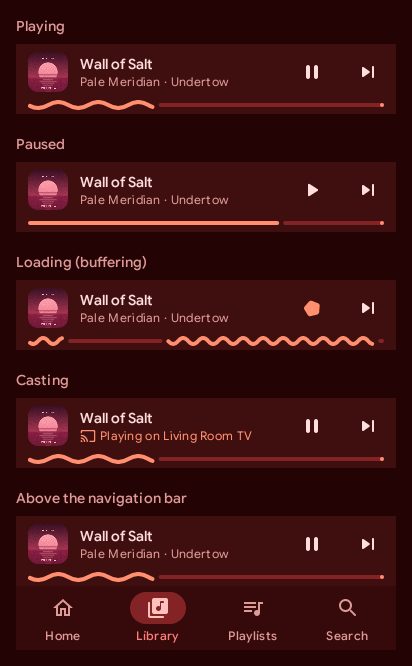
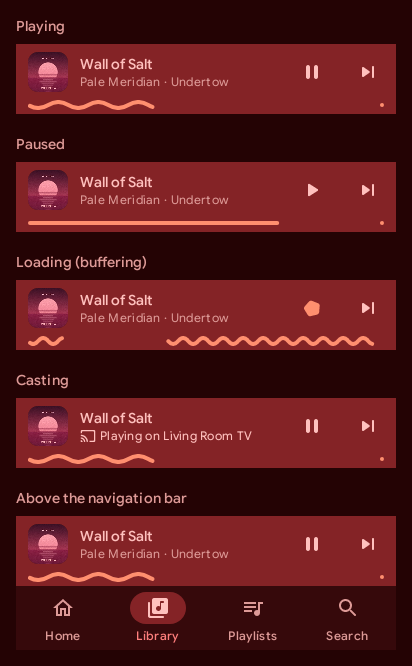
feat(designsystem): artworkRole lets player surfaces take artwork roles, mini player fills from the cover
ArtworkTheme now exposes an animated artwork weight, read through artworkRole(root, artwork):
artwork roles under a seed at Default contrast, the root roles otherwise, crossfading as a seed
comes and goes. S2MiniPlayer fills with secondaryContainer under artwork; S2Button gains
textContentColor for Text buttons. ColorSchemesTest checks the player ground and mini fill keep AA.

Refs #734

Changelog: none

diff --git a/android/designsystem/src/main/java/com/simplecityapps/shuttle/designsystem/theme/ArtworkTheme.kt b/android/designsystem/src/main/java/com/simplecityapps/shuttle/designsystem/theme/ArtworkTheme.kt
@@ -1,9 +1,15 @@
 package com.simplecityapps.shuttle.designsystem.theme
 
+import androidx.compose.animation.core.animateFloatAsState
 import androidx.compose.material3.MaterialTheme
 import androidx.compose.runtime.Composable
+import androidx.compose.runtime.CompositionLocalProvider
+import androidx.compose.runtime.ReadOnlyComposable
+import androidx.compose.runtime.compositionLocalOf
+import androidx.compose.runtime.getValue
 import androidx.compose.runtime.remember
 import androidx.compose.ui.graphics.Color
+import androidx.compose.ui.graphics.lerp
 import com.simplecityapps.shuttle.ui.theme.ArtworkSeed
 
 /**
@@ -11,7 +17,8 @@ import com.simplecityapps.shuttle.ui.theme.ArtworkSeed
  *
  * A seed too grey to carry a hue, [ArtworkSeed.None], or a first [ArtworkSeed.Loading] fall back to
  * the root scheme. While a new seed loads the previous one stays, so a change reads old → new,
- * never old → root → new. Every change crossfades with the motion scheme's slow effects spring.
+ * never old → root → new. Every change crossfades with the motion scheme's slow effects spring, and
+ * so does [artworkRole]'s switch between root and artwork roles as a seed comes and goes.
  */
 @Composable
 fun ArtworkTheme(
@@ -31,10 +38,32 @@ fun ArtworkTheme(
     val seededScheme = remember(effectiveSeed, style, settings.isDark, settings.contrast) {
         effectiveSeed?.let { artworkColorScheme(it, settings.isDark, style, settings.contrast) }
     }
-    MaterialTheme(
-        colorScheme = animateSchemeChange(seededScheme ?: rootScheme),
-        content = content,
-    )
+    // Medium and High contrast push the containers away from the surface tones, so a container
+    // ground would no longer carry surface text at AA; there [artworkRole] keeps the root roles.
+    val artworkRoles = seededScheme != null && settings.contrast == S2Contrast.Default
+    val weight by animateFloatAsState(if (artworkRoles) 1f else 0f, MaterialTheme.motionScheme.slowEffectsSpec())
+    MaterialTheme(colorScheme = animateSchemeChange(seededScheme ?: rootScheme)) {
+        CompositionLocalProvider(LocalArtworkWeight provides weight, content = content)
+    }
+}
+
+/**
+ * How far the nearest [ArtworkTheme] has crossfaded to [artworkRole]'s artwork roles: 1 painting
+ * from a seed at Default contrast, 0 on the root scheme, at a raised contrast, or outside any [ArtworkTheme].
+ */
+private val LocalArtworkWeight = compositionLocalOf { 0f }
+
+/**
+ * [artwork] under an [ArtworkTheme] painting from an artwork seed at Default contrast, [root] where it
+ * falls back to the root scheme, at a raised contrast, or outside one, crossfading as a seed comes and goes. Lets a surface take a richer
+ * role only when the artwork supplies one, so the fallback looks exactly as it did without artwork.
+ */
+@Composable
+@ReadOnlyComposable
+fun artworkRole(root: Color, artwork: Color): Color = when (val weight = LocalArtworkWeight.current) {
+    0f -> root
+    1f -> artwork
+    else -> lerp(root, artwork, weight)
 }
 
 private class SeedMemory {

diff --git a/android/designsystem/src/main/java/com/simplecityapps/shuttle/designsystem/component/MiniPlayer.kt b/android/designsystem/src/main/java/com/simplecityapps/shuttle/designsystem/component/MiniPlayer.kt
@@ -29,6 +29,7 @@ import com.simplecityapps.shuttle.designsystem.R
 import com.simplecityapps.shuttle.designsystem.preview.S2Preview
 import com.simplecityapps.shuttle.designsystem.theme.S2IconSize
 import com.simplecityapps.shuttle.designsystem.theme.S2Spacing
+import com.simplecityapps.shuttle.designsystem.theme.artworkRole
 import com.simplecityapps.shuttle.fixtures.SampleLibrary
 
 /** The mini player's height at the default text size: the shell docks the player sheet's Mini level this far above the nav bar. */
@@ -75,7 +76,14 @@ fun S2MiniPlayer(
     onNextHold: (() -> Unit)? = null,
     castingTo: String? = null,
 ) {
-    Surface(onClick = onClick, modifier = modifier, color = MaterialTheme.colorScheme.surfaceContainerHigh) {
+    val colors = MaterialTheme.colorScheme
+    // Under artwork, the cover's secondaryContainer: the tone Now Playing's ground starts from.
+    Surface(
+        onClick = onClick,
+        modifier = modifier,
+        color = artworkRole(colors.surfaceContainerHigh, colors.secondaryContainer),
+        contentColor = artworkRole(colors.onSurface, colors.onSecondaryContainer),
+    ) {
         Column {
             Row(
                 modifier = Modifier
@@ -88,12 +96,14 @@ fun S2MiniPlayer(
                 Column(Modifier.weight(1f)) {
                     Text(title, style = MaterialTheme.typography.titleSmall, maxLines = 1, overflow = TextOverflow.Ellipsis)
                     if (castingTo != null) {
+                        // primary is too light for text on an artwork container.
+                        val castColor = artworkRole(colors.primary, colors.onSecondaryContainer)
                         Row(horizontalArrangement = Arrangement.spacedBy(S2Spacing.xsmall), verticalAlignment = Alignment.CenterVertically) {
-                            Icon(Icons.Rounded.Cast, contentDescription = null, tint = MaterialTheme.colorScheme.primary, modifier = Modifier.size(S2IconSize.small))
+                            Icon(Icons.Rounded.Cast, contentDescription = null, tint = castColor, modifier = Modifier.size(S2IconSize.small))
                             Text(
                                 stringResource(R.string.ds_playing_on, castingTo),
                                 style = MaterialTheme.typography.bodySmall,
-                                color = MaterialTheme.colorScheme.primary,
+                                color = castColor,
                                 maxLines = 1,
                                 overflow = TextOverflow.Ellipsis,
                             )

diff --git a/android/designsystem/src/test/java/com/simplecityapps/shuttle/designsystem/theme/ColorSchemesTest.kt b/android/designsystem/src/test/java/com/simplecityapps/shuttle/designsystem/theme/ColorSchemesTest.kt
@@ -1,6 +1,7 @@
 package com.simplecityapps.shuttle.designsystem.theme
 
 import androidx.compose.ui.graphics.Color
+import androidx.compose.ui.graphics.lerp
 import androidx.compose.ui.graphics.luminance
 import com.materialkolor.PaletteStyle
 import com.materialkolor.ktx.contrastRatio
@@ -121,6 +122,31 @@ class ColorSchemesTest {
             player.primaryContainer.toHct().hue shouldBe (dark.toHct().hue plusOrMinus 10.0)
             player.primary.toHct().tone shouldBeGreaterThan 15.0
             player.onPrimaryContainer.contrastRatio(player.primaryContainer) shouldBeGreaterThan 4.5
+        }
+    }
+
+    @Test
+    fun `the player's artwork ground and mini player keep AA text contrast at default contrast`() {
+        // Default only: artworkRole keeps the root roles at Medium and High contrast, whose containers leave the surface tones.
+        // Covers across hue and tone: Blue Hours, Night Bus Frequencies, Phase Garden, and brights
+        val seeds = listOf(0xFF1F3FA8, 0xFF0B3D40, 0xFF1F1530, 0xFFD9542B, 0xFFE6B800, 0xFF3FA34D, 0xFFF2A0C8).map(::Color)
+        for (seed in seeds) {
+            for (isDark in listOf(false, true)) {
+                val scheme = artworkColorScheme(seed, isDark, ArtworkSchemeStyle.Player)!!
+                // Now Playing's ground: secondaryContainer at the top fading into the sheet colour (PlayerGround)
+                val sheet = if (isDark) scheme.surfaceContainerHigh else scheme.surfaceContainer
+                for (step in 0..10) {
+                    val ground = lerp(scheme.secondaryContainer, sheet, step / 10f)
+                    scheme.onSurface.contrastRatio(ground) shouldBeGreaterThan 4.5
+                    scheme.onSurfaceVariant.contrastRatio(ground) shouldBeGreaterThan 4.5
+                    // The controls colour, which the bar's Queue label is in
+                    scheme.onSecondaryContainer.contrastRatio(ground) shouldBeGreaterThan 4.5
+                }
+                // The mini player's fill
+                scheme.onSecondaryContainer.contrastRatio(scheme.secondaryContainer) shouldBeGreaterThan 4.5
+                scheme.onSurfaceVariant.contrastRatio(scheme.secondaryContainer) shouldBeGreaterThan 4.5
+                scheme.primary.contrastRatio(scheme.secondaryContainer) shouldBeGreaterThan 3.0
+            }
         }
     }
 

diff --git a/android/designsystem/src/main/java/com/simplecityapps/shuttle/designsystem/component/Button.kt b/android/designsystem/src/main/java/com/simplecityapps/shuttle/designsystem/component/Button.kt
@@ -17,6 +17,8 @@ import androidx.compose.material3.Text
 import androidx.compose.material3.TextButton
 import androidx.compose.runtime.Composable
 import androidx.compose.ui.Modifier
+import androidx.compose.ui.graphics.Color
+import androidx.compose.ui.graphics.isSpecified
 import androidx.compose.ui.graphics.vector.ImageVector
 import androidx.compose.ui.tooling.preview.Preview
 import androidx.compose.ui.unit.Dp
@@ -37,6 +39,8 @@ enum class S2ButtonSize(internal val height: Dp) {
 /**
  * An M3 button at one of the Expressive sizes, with its round → square press morph. Pass an
  * [interactionSource] to observe or drive the interaction state (the catalogue shows pressed).
+ * [textContentColor] recolours a [S2ButtonStyle.Text] button's label and icon, which are otherwise
+ * primary, to match the controls beside it; the other styles keep their container's roles.
  */
 @OptIn(ExperimentalMaterial3ExpressiveApi::class)
 @Composable
@@ -49,6 +53,7 @@ fun S2Button(
     icon: ImageVector? = null,
     enabled: Boolean = true,
     interactionSource: MutableInteractionSource? = null,
+    textContentColor: Color = Color.Unspecified,
 ) {
     val height = size.height
     val shapes = ButtonDefaults.shapesFor(height)
@@ -97,6 +102,7 @@ fun S2Button(
             shapes = shapes,
             modifier = sizedModifier,
             enabled = enabled,
+            colors = if (textContentColor.isSpecified) ButtonDefaults.textButtonColors(contentColor = textContentColor) else ButtonDefaults.textButtonColors(),
             contentPadding = contentPadding,
             interactionSource = interactionSource,
             content = content,
